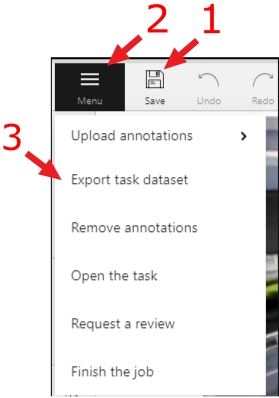
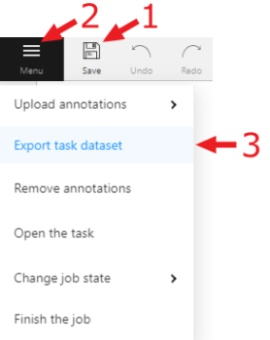
Update Documentation about export, import and backup features (#4150)

diff --git a/cvat-ui/src/components/import-dataset-modal/import-dataset-modal.tsx b/cvat-ui/src/components/import-dataset-modal/import-dataset-modal.tsx
@@ -1,4 +1,4 @@
-// Copyright (C) 2021 Intel Corporation
+// Copyright (C) 2021-2022 Intel Corporation
 //
 // SPDX-License-Identifier: MIT
 
@@ -53,7 +53,7 @@ function ImportDatasetModal(): JSX.Element {
             dispatch(importDatasetAsync(instance, values.selectedFormat as string, file));
             closeModal();
             Notification.info({
-                message: 'Dataset export started',
+                message: 'Dataset import started',
                 description: `Dataset import was started for project #${instance?.id}. `,
                 className: 'cvat-notification-notice-import-dataset-start',
             });
@@ -91,7 +91,7 @@ function ImportDatasetModal(): JSX.Element {
                 >
                     <Form.Item
                         name='selectedFormat'
-                        label='Export format'
+                        label='Import format'
                         rules={[{ required: true, message: 'Format must be selected' }]}
                     >
                         <Select placeholder='Select dataset format' className='cvat-modal-import-select'>

diff --git a/site/content/en/docs/manual/advanced/projects.md b/site/content/en/docs/manual/advanced/projects.md
@@ -10,8 +10,9 @@ description: 'Creating and exporting projects in CVAT.'
 At CVAT, you can create a project containing tasks of the same type.
 All tasks related to the project will inherit a list of labels.
 
-To create a project, go to the projects section by clicking on the `Projects` item in the top menu. 
-On the projects page, you can see a list of projects, use a search, or create a new project by clicking `Create New Project`.
+To create a project, go to the projects section by clicking on the `Projects` item in the top menu.
+On the projects page, you can see a list of projects, use a search,
+or create a new project by clicking `Create New Project`.
 
 ![](/images/image190.jpg)
 
@@ -27,28 +28,20 @@ Once created, the project will appear on the projects page. To open a project, j
 Here you can do the following:
 
 1. Change the project's title.
-1. Open the `Actions` menu.
+1. Open the `Actions` menu. Each button is responsible for a specific function in the `Actions` menu:
+   - `Export dataset`/`Import dataset` - download/upload annotations or annotations and images in a specific format.
+     More information is available in the [export/import datasets](/docs/manual/advanced/export-import-datasets/)
+     section.
+   - `Backup project` - make a backup of the project read more in the [backup](/docs/manual/advanced/backup/) section.
+   - `Delete` - remove the project and all related tasks.
 1. Change issue tracker or open issue tracker if it is specified.
 1. Change labels.
-   You can add new labels or add attributes for the existing labels in the Raw mode or the Constructor mode. 
+   You can add new labels or add attributes for the existing labels in the `Raw` mode or the `Constructor` mode.
    You can also change the color for different labels. By clicking `Copy` you can copy the labels to the clipboard.
 1. Assigned to — is used to assign a project to a person.
-   Start typing an assignee's name and/or choose the right person out of the dropdown list.
+   Start typing an assignee's name and/or choose the right person out of the dropdown list.
 1. `Tasks` — is a list of all tasks for a particular project, with the ability to search for tasks in the project.
    [Read more about search](/docs/manual/advanced/search/).
 
 It is possible to choose a subset for tasks in the project. You can use the available options
 (`Train`, `Test`, `Validation`) or set your own.
-
-You can remove the project and all related tasks through the Action menu.
-
-### Export project
-
-It is possible to download an entire project instead of exporting individual tasks. In this case,
-annotations for all tasks in a project will be available in a single archive.
-To export a project, do the following on the `Project` page:
-- Open the `Actions` menu.
-- Press the `Export project dataset` button.
-
-Additional information about exporting tasks can be found in the
-[Downloading annotations](/docs/manual/advanced/downloading-annotations/) section.

diff --git a/site/content/en/docs/manual/advanced/export-import-datasets.md b/site/content/en/docs/manual/advanced/export-import-datasets.md
@@ -1,0 +1,61 @@
+---
+title: 'Export/import datasets and upload annotation'
+linkTitle: 'Export/import datasets'
+weight: 18
+description: 'This section explains how to download and upload datasets
+  (including annotation, images, and metadata) of projects, tasks, and jobs.'
+---
+
+## Export dataset
+
+You can export a dataset to a project, task or job.
+
+1. To download the latest annotations, you have to save all changes first.
+   Сlick the `Save` button. There is a `Ctrl+S` shortcut to save annotations quickly.
+
+   ![](/images/image028.jpg)
+
+1. After that, сlick the `Menu` button.
+   Exporting and importing of task and project datasets takes place through the `Action` menu.
+1. Press the `Export task dataset` button.
+
+   ![](/images/image225.jpg)
+
+1. Choose the format for exporting the dataset. Exporting and importing is available in:
+   - Standard CVAT formats:
+     - [CVAT for video](/docs/manual/advanced/xml_format/#interpolation)
+       choose if the task is created in interpolation mode.
+     - [CVAT for images](/docs/manual/advanced/xml_format/#annotation)
+       choose if a task is created in annotation mode.
+
+       <br>
+   - And also in formats from the [list of annotation formats supported by CVAT](/docs/manual/advanced/formats/).
+
+   - For 3D tasks, the following formats are available:
+     - [Kitti Raw Format 1.0](http://www.cvlibs.net/datasets/kitti/raw_data.php)
+     - Sly Point Cloud Format 1.0  - Supervisely Point Cloud dataset
+
+   <br>
+1. To download images with the dataset, tick the `Save images` box.
+1. (Optional) To name the resulting archive, use the `Custom name` field.
+
+## Import dataset
+
+You can import dataset only to a project. In this case, the data will be split into subsets.
+To import a dataset, do the following on the `Project` page:
+
+![](/images/image238.jpg)
+
+- Open the `Actions` menu.
+- Press the `Import dataset` button.
+- Select the dataset format (if you did not specify a custom name during export,
+  the format will be in the archive name).
+- Drag the file to the file upload area or click on the upload area to select the file through the explorer.
+
+During the import process, you will be able to track the progress of the import.
+
+## Upload annotations
+
+In the task or job you can upload an annotation. For this select the item `Upload annotation`
+in the menu `Action` of the task or in the job `Menu` on the `Top panel` select the format in which you plan
+to upload the annotation and select the annotation file or archive via explorer.

diff --git a/site/content/en/docs/manual/basics/tasks-page.md b/site/content/en/docs/manual/basics/tasks-page.md
@@ -12,15 +12,16 @@ Each element contains: task name, preview, progress bar, button `Open`, and menu
 Each button is responsible for a in menu `Actions` specific function:
 
 - `Export task dataset` — download annotations or annotations and images in a specific format.
-  More information is available in the [Downloading annotations](/docs/manual/advanced/downloading-annotations/)
+  More information is available in the [export/import datasets](/docs/manual/advanced/export-import-datasets/)
   section.
-- `Upload annotation` is available in the same formats as in `Export task dataset`. The
-  [CVAT](/docs/manual/advanced/xml_format/) format accepts both video and image sub-formats.
+- `Upload annotation` upload annotations in a specific format.
+  More information is available in the [export/import datasets](/docs/manual/advanced/export-import-datasets/)
+  section.
 - `Automatic Annotation` — automatic annotation with OpenVINO toolkit.
-  Presence depends on how you build CVAT instance.
-- `Export task` — Export a task into a zip archive.
-  Read more in the [export/import a task](/docs/manual/advanced/export-import/) section.
-- `Move to project` — Moving the task to the project (can be used to move a task from one project to another).
+  Presence depends on how you build the CVAT instance.
+- `Backup task` — make a backup of this task into a zip archive.
+  Read more in the [backup](/docs/manual/advanced/backup/) section.
+- `Move to project` — Moving a task to a project (can be used to move a task from one project to another).
   Note that attributes reset during the moving process. In case of label mismatch,
   you can create or delete necessary labels in the project/task.
   Some task labels can be matched with the target project labels.

diff --git a/site/content/en/docs/manual/advanced/backup.md b/site/content/en/docs/manual/advanced/backup.md
@@ -1,0 +1,60 @@
+---
+title: 'Backup Task and Project'
+linkTitle: 'Backup'
+weight: 17
+---
+
+In CVAT you can backup tasks and projects.
+This can be used to backup a task or project on your PC or to transfer to another server.
+
+## Backup
+
+To backup a task or project, open the action menu and select `Backup Task` or `Backup Project`.
+
+![](/images/image219.jpg)
+
+### Backup structure
+
+As a result, you'll get a zip archive containing data,
+task or project and task specification and annotations with the following structure:
+
+{{< tabpane >}}
+  {{< tab header="Task Backup Structure" >}}
+    .
+    ├── data
+    │   └── {user uploaded data}
+    ├── task.json
+    └── annotations.json
+  {{< /tab >}}
+  {{< tab header="Project Backup Structure" >}}
+    .
+    ├── task_{id}
+    │   ├── data
+    │   │   └── {user uploaded data}
+    │   ├── task.json
+    │   └── annotations.json
+    └── project.json
+  {{< /tab >}}
+{{< /tabpane >}}
+
+### Backup API
+
+- endpoint: `/v1/tasks/{id}/backup` or `/v1/projects/{id}/backup`
+- method: `GET`
+- responses: 202, 201 with zip archive payload
+
+## Create from backup
+
+To create a task or project from a backup, go to the tasks or projects page,
+click the `Create from backup` button and select the archive you need.
+
+![](/images/image220.jpg)
+
+As a result, you'll get a task containing data, parameters, and annotations of the previously exported task.
+
+### Create from backup API
+
+- endpoint: `/api/v1/tasks/backup` or `/api/v1/projects/backup`
+- method: `POST`
+- Content-Type: `multipart/form-data`
+- responses: 202, 201 with json payload

diff --git a/site/content/en/docs/getting_started.md b/site/content/en/docs/getting_started.md
@@ -60,17 +60,18 @@ you the opportunity to speed up the execution of the annotation:
 - [AI tools](/docs/manual/advanced/ai-tools/) - tools requiring installation.
 - [Automatic annotation](/docs/manual/advanced/automatic-annotation/) - automatic annotation with using DL models.
 
-## Dump annotation
+## Export dataset
 
 ![](/images/image028.jpg)
 
 1. To download the annotations, first you have to save all changes.
    Click the `Save` button or press `Ctrl+S`to save annotations quickly.
 
-2. After you saved the changes, click the `Menu` button.
+1. After you saved the changes, click the `Menu` button.
 
-3. Then click the `Dump Annotation` button.
+1. Then click the `Export dataset` button.
 
-4. Lastly choose a format of the dump annotation file.
+1. Lastly choose a format of the dataset.
+   Exporting is available in formats from the [list of supported formats](/docs/manual/advanced/formats/).
 
-To learn more, go to [downloading annotations](/docs/manual/advanced/downloading-annotations/)
+To learn more, go to [export/import datasets](/docs/manual/advanced/export-import-datasets/) section.
